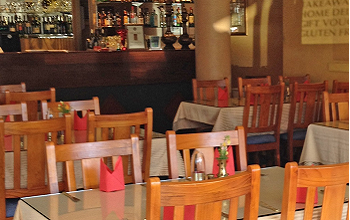
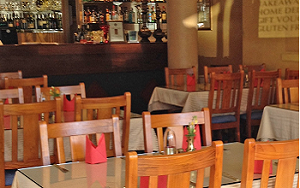
added gallery images

diff --git a/script.js b/script.js
@@ -102,8 +102,26 @@
 
 	scotchApp.controller('galleryController', function($scope) {
 		$scope.message = 'Contact us! JK. This is just a demo.';
-		$scope.message1 = 'Mobile: 0212154548';
-		$scope.message2 = 'Landline: 0921255422';
+		var galleryImages = $('#gallery-images');
+		//galleryImages.append("<img id='gallery-image' src='assets/images/gallery_pics/small/1.png'/>");
+		var smallGalleryImages = [
+		      'assets/images/gallery_pics/small/1.png', 
+		      'assets/images/gallery_pics/small/2.png',
+		      'assets/images/gallery_pics/small/3.png',
+		      'assets/images/gallery_pics/small/4.png',
+		      'assets/images/gallery_pics/small/5.png',
+		      'assets/images/gallery_pics/small/6.png',
+		      'assets/images/gallery_pics/small/7.png',
+		      'assets/images/gallery_pics/small/8.png',
+		      'assets/images/gallery_pics/small/9.png'];
+
+		function displayImages(images) {
+			for(var i = 0 ; i < images.length; i++)
+			galleryImages.append("<img id='gallery-image"+ i+"' style='margin-bottom : 10px; margin-laft : 10px; margin-right : 10px;' src='" +images[i] + "'/>");
+			$('#gallery-image' + i).css({
+		           'margin': '10px' });
+		}
+		displayImages(smallGalleryImages);
 	});
 
 	scotchApp.controller('teamController', function($scope) {

diff --git a/styles.css b/styles.css
@@ -216,6 +216,7 @@
 #about-us-pics{
     position: relative;
     height: 240px;
+    transition: background 0.5s linear;
 }
 
 @media screen and (min-width: 480px) {
@@ -259,6 +260,13 @@
 .gallery-btn{
   margin-bottom: 10px;
   width: 7em;
+}
+
+
+@media screen and (min-width: 680px) {
+  #gallery-images{
+    padding-left: 10em;
+  }
 }
 
 

diff --git a/Pages/gallery.html b/Pages/gallery.html
@@ -16,7 +16,7 @@
 			<button class="btn btn-default gallery-btn" > Drinks </button>
 			<button class="btn btn-default gallery-btn"> Dessert </button>
 		</div>
-		<div class="col-md-11">
+		<div class="col-md-11" id="gallery-images" style="padding-left: 50px;" >
 			
 		</div>
 	</div>
